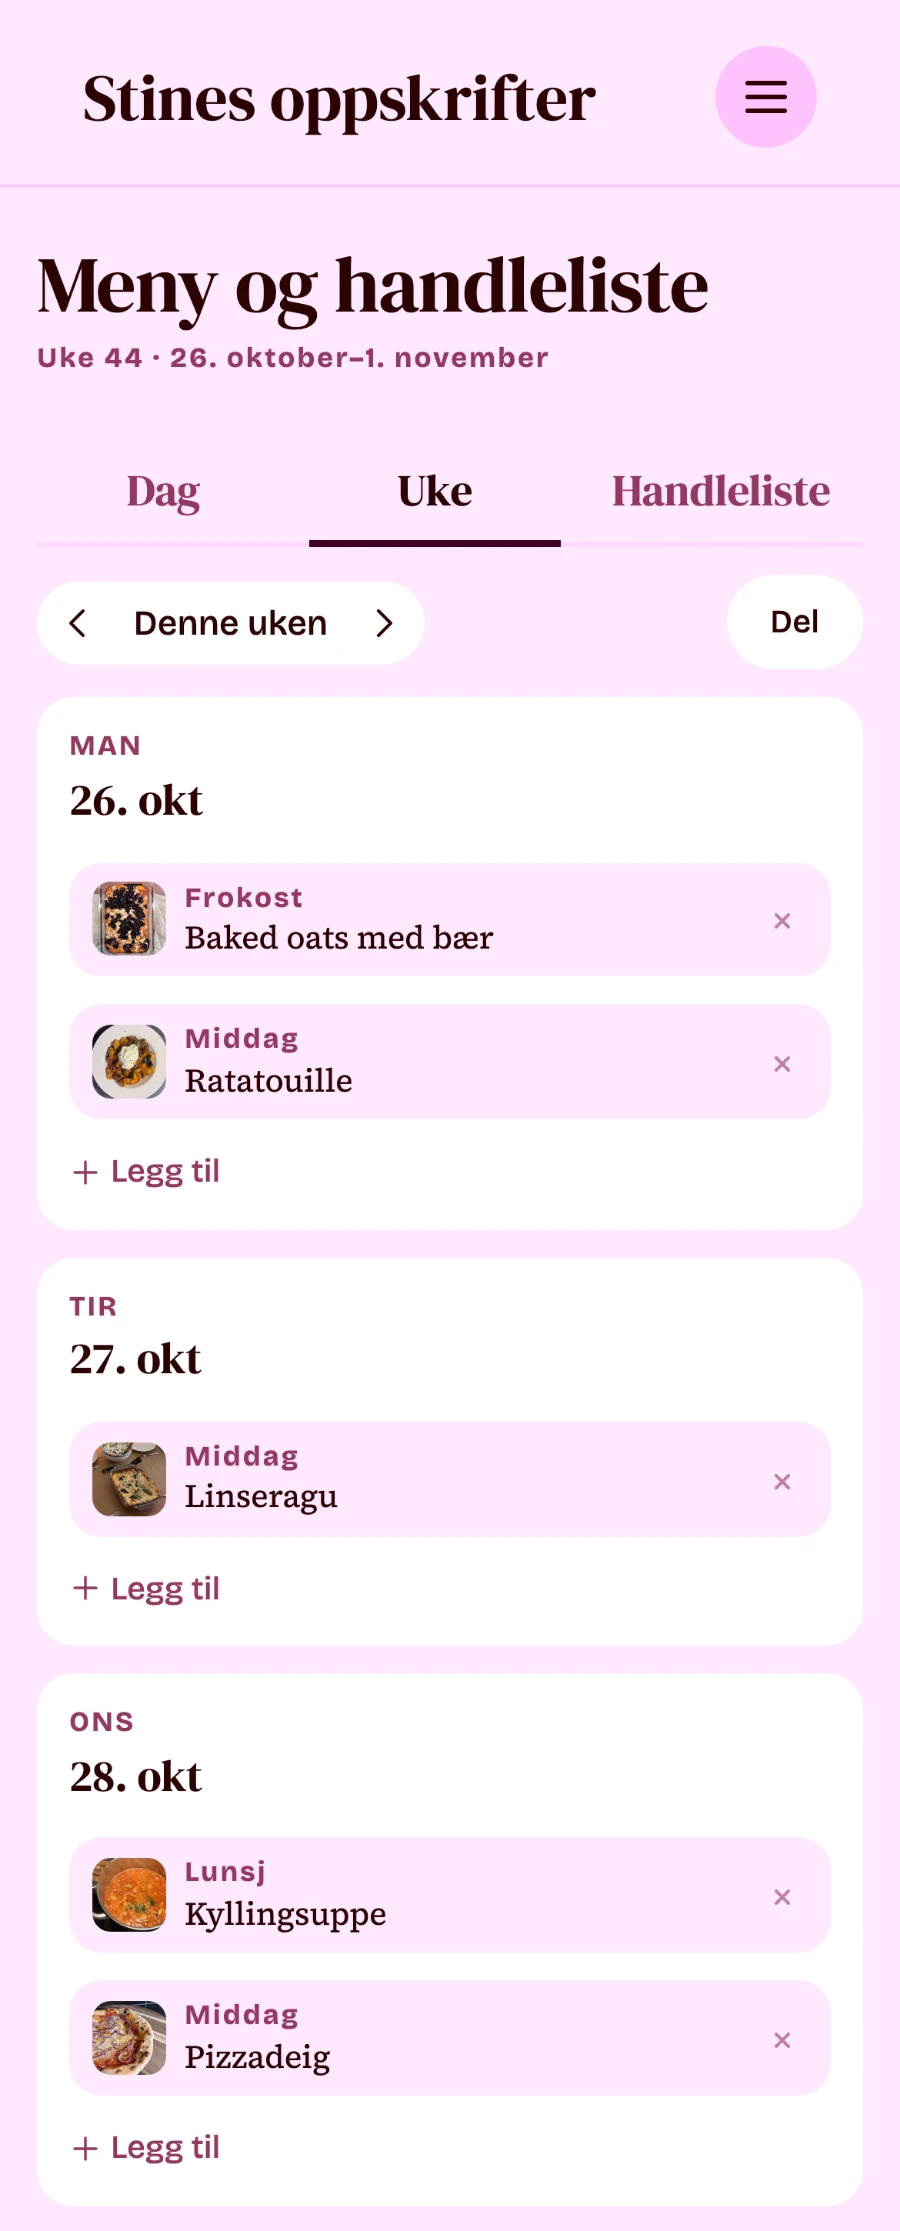
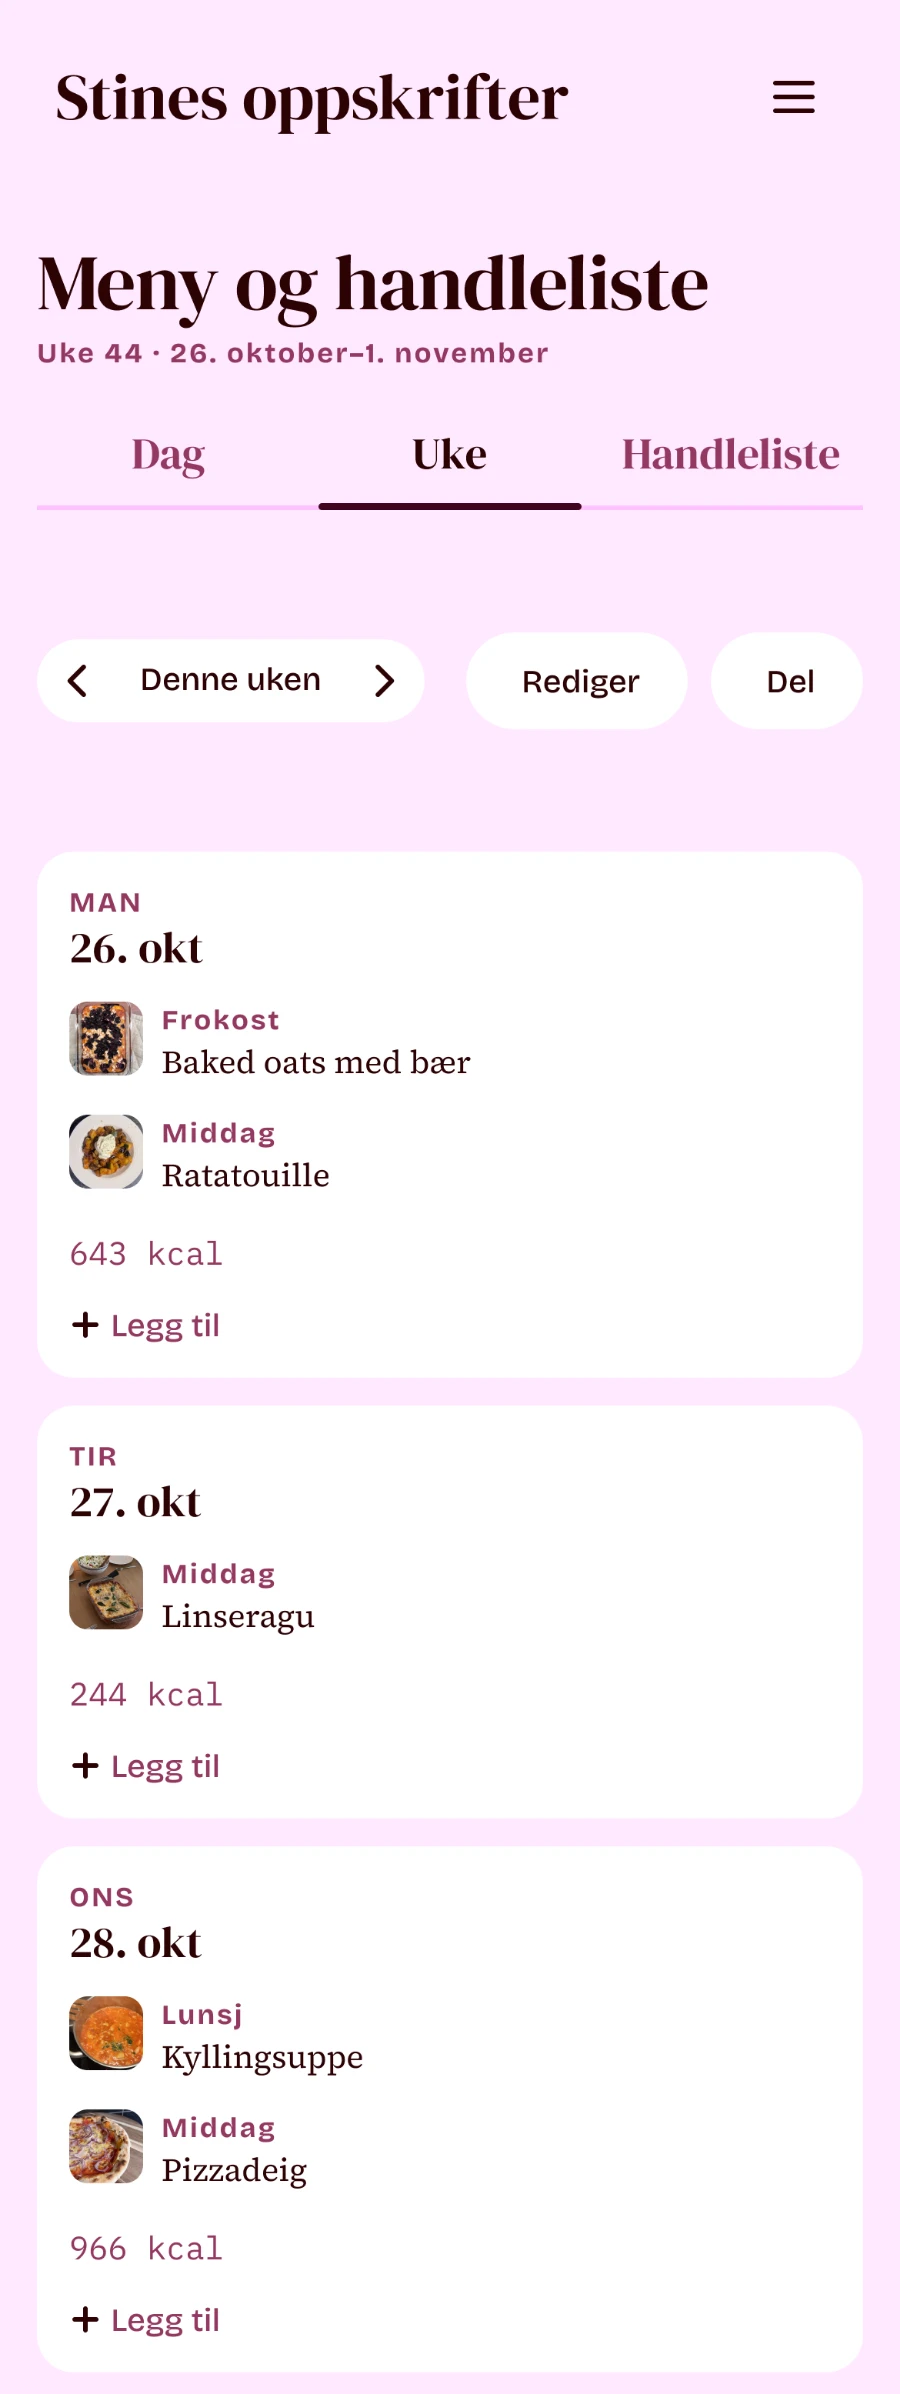
Stines oppskrifter: mobile screens from the Figma frames with real data and real food photos (Baked oats med bær, week 44 menu, Ukeshandel)

diff --git a/app/routes/stines-oppskrifter.tsx b/app/routes/stines-oppskrifter.tsx
@@ -125,7 +125,7 @@ export default function StinesOppskrifterRoute() {
                   },
                   {
                     src: "/stines-oppskrifter/mobil-forside-liste.webp",
-                    alt: "Oppskriften Ratatouille som kort på mobil, filtrert på middag.",
+                    alt: "Oppskriften «Baked oats med bær» som kort på mobil.",
                     caption: "Oppskriftene filtreres mens du svarer",
                   },
                 ]}
@@ -155,12 +155,12 @@ export default function StinesOppskrifterRoute() {
                 phones={[
                   {
                     src: "/stines-oppskrifter/mobil-oppskrift.webp",
-                    alt: "Oppskriften på en focaccia på mobil, med forfatter, tider og bilde.",
+                    alt: "Oppskriften «Baked oats med bær» på mobil, med forfatter, tider og bilde.",
                     caption: "Oppskriften på mobil",
                   },
                   {
                     src: "/stines-oppskrifter/mobil-tilpasser.webp",
-                    alt: "Porsjonsvelger og ingredienser på mobil.",
+                    alt: "Porsjonsvelger og ingredienser på mobil, med en egen mengde for gresk yoghurt.",
                     caption: "Porsjoner og ingredienser",
                   },
                 ]}
@@ -211,7 +211,7 @@ export default function StinesOppskrifterRoute() {
                 phones={[
                   {
                     src: "/stines-oppskrifter/mobil-dag.webp",
-                    alt: "Dagsmenyen på mobil, med frokost og middag og en knapp for å legge til flere retter.",
+                    alt: "Dagsmenyen på mobil, med lunsj og middag og en knapp for å legge til flere retter.",
                     caption: "Dagsmenyen",
                   },
                   {
@@ -279,8 +279,8 @@ export default function StinesOppskrifterRoute() {
                 phones={[
                   {
                     src: "/stines-oppskrifter/mobil-kalorier.webp",
-                    alt: "Dagsmenyen på mobil, med kalorier per måltid og en oppsummering for dagen.",
-                    caption: "Kalorier i menyen",
+                    alt: "Kalorivalget på mobil, med kalorier på oppskriftskortet.",
+                    caption: "Kalorier på oppskriftskortet",
                   },
                 ]}
               >
